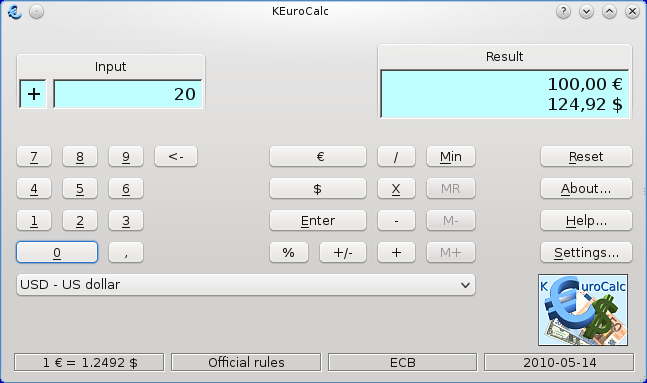
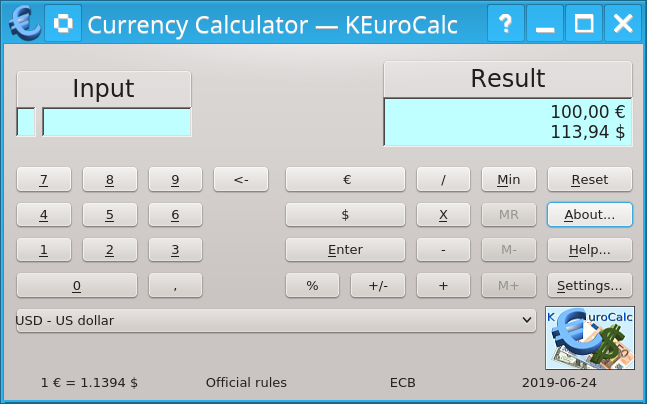
Preparing first release for KF 5
Release 1.3.0 - tested to configure, compile, install, and run.
Has refreshed dates and screenshots.

(autoinstallation of curconvd service not tested properly,
not sure how to check that.)

diff --git a/keurocalc/main.cpp b/keurocalc/main.cpp
@@ -2,7 +2,7 @@
                           main.cpp  -  main program
                              -------------------
     begin                : sam déc  1 23:40:19 CET 2001
-    copyright            : (C) 2001-2018 by Éric Bischoff
+    copyright            : (C) 2001-2019 by Éric Bischoff
     email                : ebischoff@nerim.net
  ***************************************************************************/
 
@@ -29,7 +29,7 @@
 static const char
 	*name = I18N_NOOP("KEuroCalc"),
 	*description = I18N_NOOP("Cash converter and calculator"),
-	*copyright = I18N_NOOP("(c) 2001-2018, the KEuroCalc developers"),
+	*copyright = I18N_NOOP("(c) 2001-2019, the KEuroCalc developers"),
 	*text = I18N_NOOP("A program by Éric Bischoff <ebischoff@nerim.net>\n\nThis program is dedicated to all who know that money does not justify anything.\n\nTime Genie exchange rates courtesy of <a href='http://www.timegenie.com/' title='foreign exchange rates courtesy of Time Genie'>Time Genie</a>\n");
 
 int main(int argc, char *argv[])

diff --git a/curconvd/main.cpp b/curconvd/main.cpp
@@ -2,7 +2,7 @@
                           main.cpp  -  main program
                              -------------------
     begin                : lun nov 13 11:22:05 CET 2006
-    copyright            : (C) 2006-2018 by Éric Bischoff
+    copyright            : (C) 2006-2019 by Éric Bischoff
     email                : ebischoff@nerim.net
  ***************************************************************************/
 
@@ -28,7 +28,7 @@
 static const char
 	*name =	I18N_NOOP("CurConvD"),
 	*description = I18N_NOOP("A currency converter daemon"),
-	*copyright = I18N_NOOP("(c) 2006-2018, the curconvd developers"),
+	*copyright = I18N_NOOP("(c) 2006-2019, the curconvd developers"),
 	*text = I18N_NOOP("A program by Éric Bischoff <ebischoff@nerim.net>\n\nTime Genie exchange rates courtesy of <a href='http://www.timegenie.com/' title='foreign exchange rates courtesy of Time Genie'>Time Genie</a>\n");
 
 int main(int argc, char *argv[])

diff --git a/currencies/currencies.cpp b/currencies/currencies.cpp
@@ -2,7 +2,7 @@
                          currencies.cpp  -  list of currencies
                              -------------------
     begin                : sam déc  1 23:40:19 CET 2001
-    copyright            : (C) 2001-2018 by Éric Bischoff
+    copyright            : (C) 2001-2019 by Éric Bischoff
     email                : ebischoff@nerim.net
  ***************************************************************************/
 

diff --git a/currencies/currencies.h b/currencies/currencies.h
@@ -2,7 +2,7 @@
                            currencies.h  -  list of currencies
                              -------------------
     begin                : sam déc  1 23:40:19 CET 2001
-    copyright            : (C) 2001-2018 by Éric Bischoff
+    copyright            : (C) 2001-2019 by Éric Bischoff
     email                : ebischoff@nerim.net
  ***************************************************************************/
 

diff --git a/keurocalc/preferences.cpp b/keurocalc/preferences.cpp
@@ -2,7 +2,7 @@
                       preferences.cpp  -  preferences widget
                              -------------------
     begin                : lun avr 12 18:25:02 CET 2004
-    copyright            : (C) 2001-2018 by Éric Bischoff
+    copyright            : (C) 2001-2019 by Éric Bischoff
     email                : ebischoff@nerim.net
  ***************************************************************************/
 

diff --git a/keurocalc/preferences.h b/keurocalc/preferences.h
@@ -2,7 +2,7 @@
                       preferences.h  -  preferences widget
                              -------------------
     begin                : lun avr 12 18:25:02 CET 2004
-    copyright            : (C) 2001-2018 by Éric Bischoff
+    copyright            : (C) 2001-2019 by Éric Bischoff
     email                : ebischoff@nerim.net
  ***************************************************************************/
 

diff --git a/curconvd/converter.cpp b/curconvd/converter.cpp
@@ -2,7 +2,7 @@
                           converter.cpp  -  d-bus service
                              -------------------
     begin                : lun nov 13 11:22:05 CET 2006
-    copyright            : (C) 2006-2018 by Éric Bischoff
+    copyright            : (C) 2006-2019 by Éric Bischoff
     email                : ebischoff@nerim.net
  ***************************************************************************/
 

diff --git a/curconvd/table.cpp b/curconvd/table.cpp
@@ -2,7 +2,7 @@
                           table.cpp  -  conversion table
                              -------------------
     begin                : jeu nov 23 21:03:30 CET 2006
-    copyright            : (C) 2006-2018 by Éric Bischoff
+    copyright            : (C) 2006-2019 by Éric Bischoff
     email                : ebischoff@nerim.net
  ***************************************************************************/
 

diff --git a/keurocalc/keurocalc.cpp b/keurocalc/keurocalc.cpp
@@ -2,7 +2,7 @@
                           keurocalc.cpp  -  main widget
                              -------------------
     begin                : sam déc  1 23:40:19 CET 2001
-    copyright            : (C) 2001-2018 by Éric Bischoff
+    copyright            : (C) 2001-2019 by Éric Bischoff
     email                : ebischoff@nerim.net
  ***************************************************************************/
 

diff --git a/curconvd/converter.h b/curconvd/converter.h
@@ -2,7 +2,7 @@
                           converter.h  -  d-bus service
                              -------------------
     begin                : lun nov 13 11:28:34 CET 2006
-    copyright            : (C) 2006-2018 by Éric Bischoff
+    copyright            : (C) 2006-2019 by Éric Bischoff
     email                : ebischoff@nerim.net
  ***************************************************************************/
 

diff --git a/curconvd/table.h b/curconvd/table.h
@@ -2,7 +2,7 @@
                           table.h  -  conversion table
                              -------------------
     begin                : jeu nov 23 21:03:27 CET 2006
-    copyright            : (C) 2006-2018 by Éric Bischoff
+    copyright            : (C) 2006-2019 by Éric Bischoff
     email                : ebischoff@nerim.net
  ***************************************************************************/
 

diff --git a/keurocalc/keurocalc.h b/keurocalc/keurocalc.h
@@ -2,7 +2,7 @@
                           keurocalc.h  -  main widget
                              -------------------
     begin                : sam déc  1 23:40:19 CET 2001
-    copyright            : (C) 2001-2018 by Éric Bischoff
+    copyright            : (C) 2001-2019 by Éric Bischoff
     email                : ebischoff@nerim.net
  ***************************************************************************/
 
